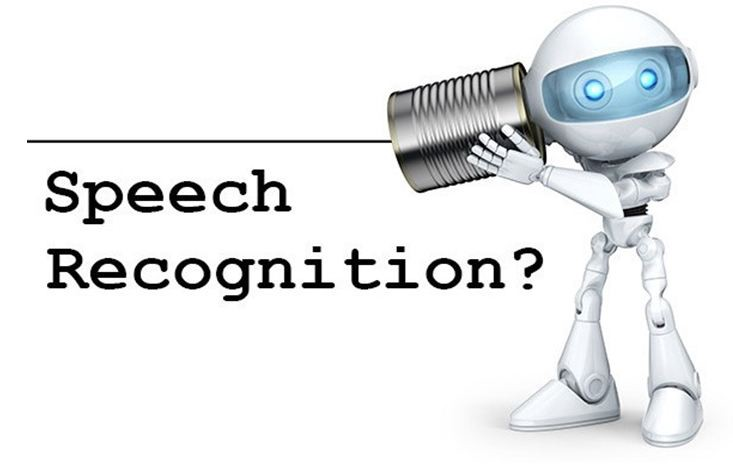
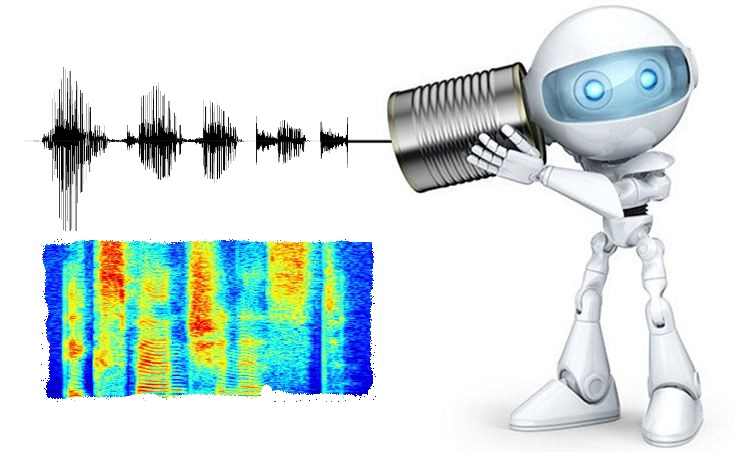
now

Changed region(s): [[0.03, 0.0929, 0.9604, 0.9912], [0.9304, 0.1239, 0.9604, 0.1549]]

diff --git a/_pages/now.md b/_pages/now.md
@@ -23,21 +23,13 @@ feature_row2:
     #btn_label: "Read More"
     #btn_class: "btn--primary"
 feature_row3:
-  - image_path: /assets/images/unsplash-gallery-image-2-th.jpg
-    alt: "placeholder image 2"
-    title: "Placeholder Image Right Aligned"
-    excerpt: 'This is some sample content that goes here with **Markdown** formatting. Right aligned with `type="right"`'
-    url: "#test-link"
-    btn_label: "Read More"
-    btn_class: "btn--primary"
-feature_row4:
-  - image_path: /assets/images/unsplash-gallery-image-2-th.jpg
-    alt: "placeholder image 2"
-    title: "Placeholder Image Center Aligned"
-    excerpt: 'This is some sample content that goes here with **Markdown** formatting. Centered with `type="center"`'
-    url: "#test-link"
-    btn_label: "Read More"
-    btn_class: "btn--primary"
+  - image_path: /images/speech.jpeg
+    alt: "speech recognition"
+    title: "Speech Recognition system"
+    excerpt: 'Speech recognition for people with amyotrophic lateral sclerosis (ALS). Which is a long-term project that I'm not ready to share yet, but you will soon notice!'
+   # url: "#test-link"
+    #btn_label: "Read More"
+    #btn_class: "btn--primary"
 ---
 
 {% include feature_row id="intro" type="center" %}
@@ -46,4 +38,3 @@ feature_row4:
 
 {% include feature_row id="feature_row3" type="right" %}
 
-{% include feature_row id="feature_row4" type="center" %}
